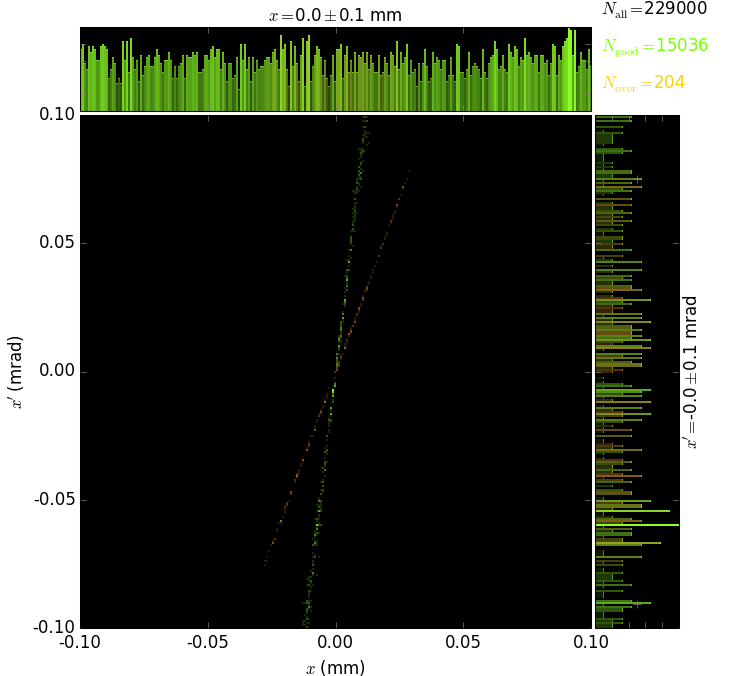
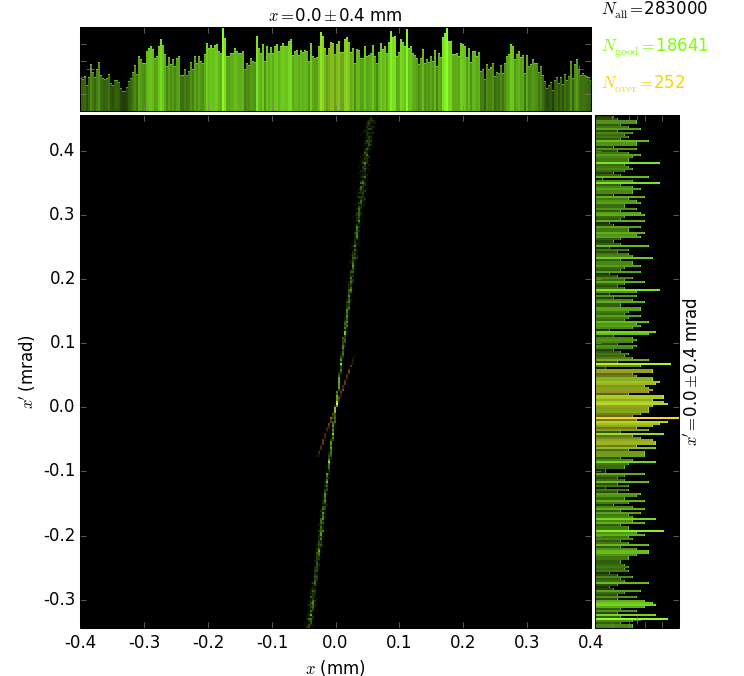
Some wierd axis scaling problem observed
XYCPlot shows always same limits even if set to be explicitly different,
not sure if it affects shown data or not, tbc

diff --git a/simplfiedMonoCapillary.py b/simplfiedMonoCapillary.py
@@ -32,7 +32,7 @@ r0 = 0.07
 rOut = 0.02
 wall = 0.02
 plot2D_yLim = [-0.05, 0.05]
-plot_main_lim = 0.05 # min 2*r0 for capillary entrance imaging
+plot_main_lim = 0.4 # min 2*r0 for capillary entrance imaging
 layers = 10 # number of hexagonal layers
 nRefl = 4 # number of reflections
 nReflDisp = 12 # unused
@@ -169,20 +169,20 @@ def main():
     beamLine = build_beamline()
     plots = []
 
-    limits = [-plot_main_lim, plot_main_lim]
+    limits1 = [-plot_main_lim, plot_main_lim]
     limits2 = [-0.1, 0.1]
     # at the entrance
     plot = xrtp.XYCPlot('beamFSM2', (1,3),
-        xaxis=xrtp.XYCAxis(r"$x$", 'mm', bins=256, ppb=2, limits=limits),
-        yaxis=xrtp.XYCAxis(r"$x'$", 'mrad', bins=256, ppb=2, limits=limits2),
+        xaxis=xrtp.XYCAxis(r"$x$", 'mm', bins=256, ppb=2, limits=limits1),
+        yaxis=xrtp.XYCAxis(r"$x'$", 'mrad', bins=256, ppb=2, limits=None),
         caxis='category', beamState='beamFSM2', title='FSM2_Cat')
     plot.baseName = 'taperedCapillary'
     plot.saveName = plot.baseName + '.png'
     plots.append(plot)
     for it in range(0,max_plots):
         plot = xrtp.XYCPlot('myExposedScreen{0:02d}'.format(it), (1,3),
-            xaxis=xrtp.XYCAxis(r'$x$', 'mm', bins=256, ppb=2, limits=limits),
-            yaxis=xrtp.XYCAxis(r'$z$', 'mm', bins=256, ppb=2, limits=limits),
+            xaxis=xrtp.XYCAxis(r'$x$', 'mm', bins=256, ppb=2, limits=limits1),
+            yaxis=xrtp.XYCAxis(r'$z$', 'mm', bins=256, ppb=2, limits=limits1),
             caxis='category', beamState='myExposedScreen{0:02d}'.format(it), title=str(it))
         plot.baseName = 'inside_one_capillary_multiple_screens' + str(100+it)
         plot.saveName = plot.baseName + '.png'
